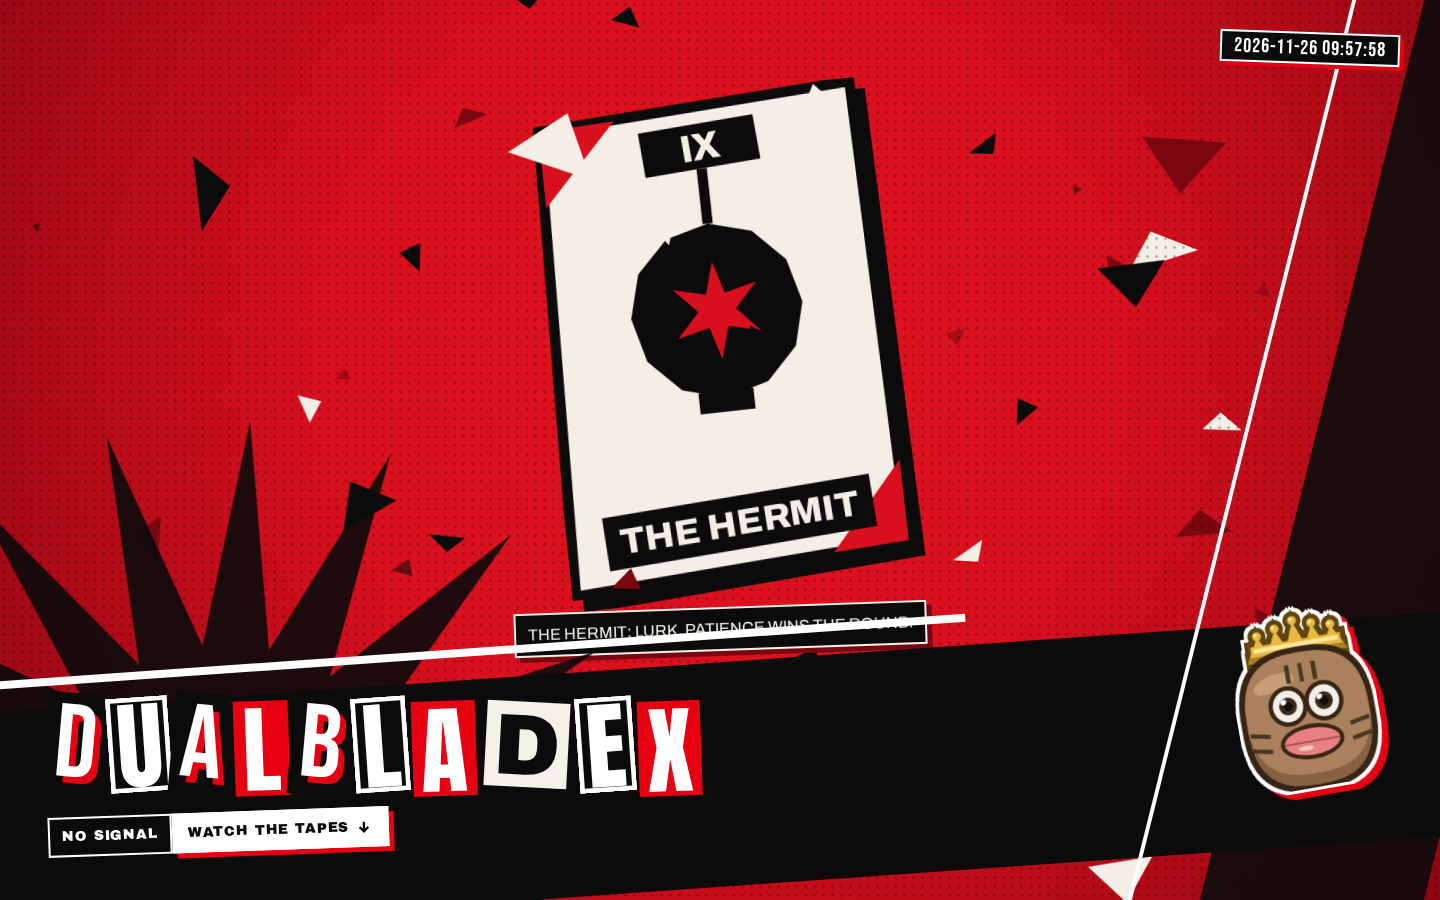
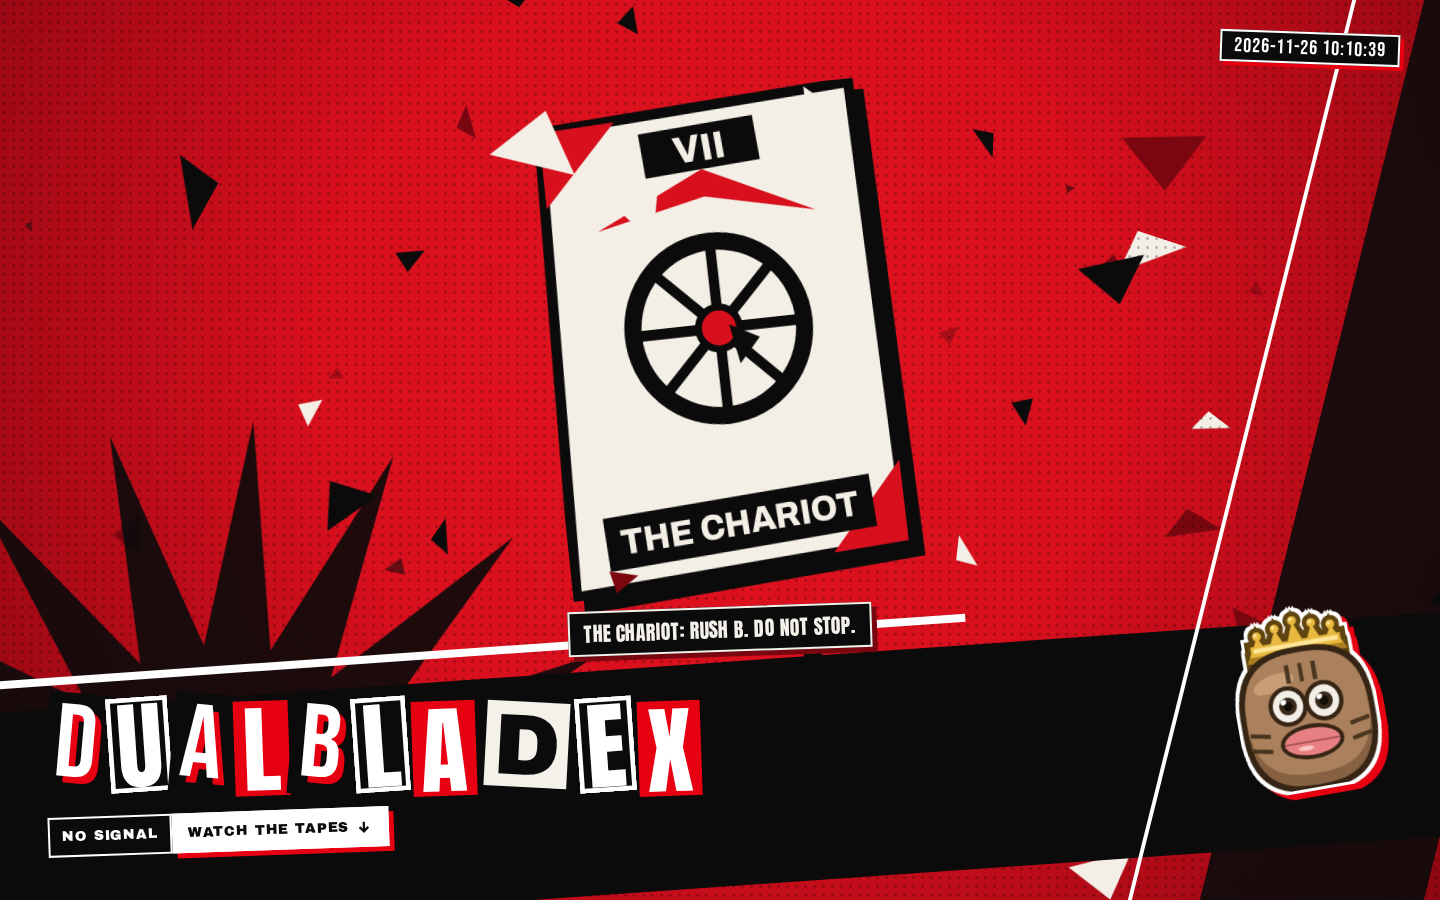
duo 009: fortune caption above every hero overlay, persona display type

diff --git a/components/SpheresLite.test.tsx b/components/SpheresLite.test.tsx
@@ -1,4 +1,4 @@
-import { describe, expect, it, vi } from "vitest";
+import { beforeEach, describe, expect, it, vi } from "vitest";
 import { act, fireEvent, render, screen } from "@testing-library/react";
 import { INTRO_END, SpheresLite, introPosition, nearest, pick } from "./SpheresLite";
 import { HeroScene2 } from "./HeroScene2";
@@ -62,6 +62,9 @@ describe("SpheresLite", () => {
 });
 
 describe("HeroScene2", () => {
+  // Every pointer-up asks matchMedia, and the tests below unstub globals as they finish.
+  beforeEach(() => vi.stubGlobal("matchMedia", () => ({ matches: false })));
+
   it("clears the door's flash when Back restores the page from the bfcache", () => {
     const { container } = render(<HeroScene2 />);
     const flash = container.querySelector<HTMLDivElement>(".z-40")!;
@@ -109,7 +112,6 @@ describe("HeroScene2", () => {
 
   it("a flick draws an arcana with its fortune, cleared after 7 s", () => {
     vi.useFakeTimers();
-    vi.stubGlobal("matchMedia", () => ({ matches: false }));
     const { container } = render(<HeroScene2 />);
     const card = screen.getByRole("button", { name: "Calling card" });
     const caption = container.querySelector("[aria-live]")!;

diff --git a/components/HeroScene2.tsx b/components/HeroScene2.tsx
@@ -377,9 +377,14 @@ export function HeroScene2() {
             ))}
           </div>
         </div>
+      </div>
+      {/* The fortune sits above every hero overlay (Hero's slashes, sticker and tags are z-10/z-20),
+          under the card by a card-sized spacer, 16px from the viewport edges. */}
+      <div className="pointer-events-none absolute inset-x-4 inset-y-0 z-30 flex flex-col items-center pt-[14vh] md:pt-[10vh]">
+        <div aria-hidden className="aspect-[5/7] w-[min(62vw,22rem)] shrink-0" />
         <p
           aria-live="polite"
-          className={`pointer-events-none mt-6 max-w-[min(92vw,30rem)] -rotate-2 border-2 border-paper bg-ink px-3 py-2 text-center text-sm uppercase text-paper shadow-[5px_5px_0_#7a0710] md:text-base ${
+          className={`stencil no-shadow mt-6 max-w-[min(100%,30rem)] -rotate-2 border-2 border-paper bg-ink px-3.5 py-2 text-center text-[clamp(15px,2.4vw,20px)] !leading-tight tracking-[0.03em] text-paper shadow-[5px_5px_0_#7a0710] ${
             fortune ? "" : "invisible"
           }`}
         >
